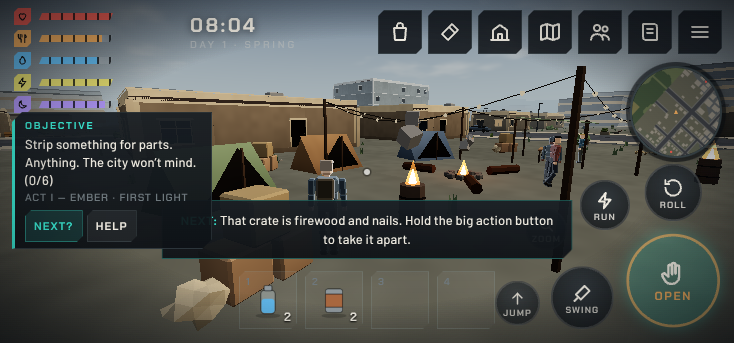
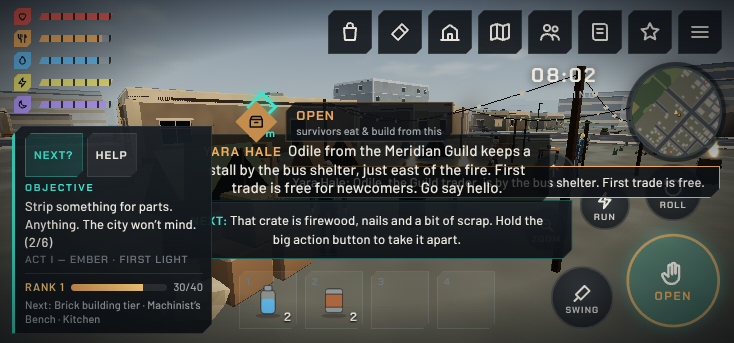
568x320 objective width restored; round 6 decisions logged
Claude-Session: https://claude.ai/code/session_01SR1Fv8d7mJoWGoXgmNhuZf

diff --git a/apps/game/src/ui/style.css b/apps/game/src/ui/style.css
@@ -687,3 +687,7 @@ html.touch .prompt { display: none; }
 @media (max-height: 500px) and (max-width: 700px) {
   #ui .objective { width: 186px; }
 }
+/* 568×320-class screens (1st-gen SE Safari tab): keep the round-5 narrow card left of the quick bar */
+@media (max-width: 600px) and (max-height: 340px) {
+  #ui .objective { width: 136px; top: calc(var(--safe-t) + 108px); max-height: calc(100vh - var(--safe-t) - var(--safe-b) - 116px); }
+}

diff --git a/docs/DECISIONS.md b/docs/DECISIONS.md
@@ -67,3 +67,19 @@ Newest last. Each entry: what, why, and what would change it.
 - **Save schema 3:** v2 saves get retroactive credit once, for quest XP, quest rep, node XP, perk points and Custodian rep. A frozen v2 fixture (`packages/sim/test/fixtures/save-v2.ts`) must keep loading.
 - **Tutorial "Check your pack":** it works for humans (Tab, I and a touch tap all pass, measured in real-time Chromium). The review bot failed it because it opened the pack during step 3. The game now remembers a pack opened before its step (`flags.seenPack`) so nobody is asked twice.
 - **Bundle baseline** moved 0.54 → 0.61 MB gzip (budget 12 MB). Round 3 was already +4% (0.590 MB). Round 4 adds 16 KB of JS: the perks screen, story/ending flow, power module and sim campaign rules. Accepted on purpose (`UPDATE_BASELINE=1`). The 10% growth guard stays.
+
+## 2026-11-05 — Round 6: a reliable, fair first hour
+- **Reboot guidance.** After the tutorial, the quest objective drives the world beacon and a minimap diamond (Story.target from sim `nextStep`). Raid warnings (away from Haven), a raid recovery, a dropped satchel and a ripe crop outrank it, and outrank tutorial markers too. The node prompt reads "Reboot node". A one-time explainer appears within 25 m of the first node. The round-5 "bot never started a reboot" was the bot's straight-line walking stuck on props; the bots now follow `findPath` and replan around cells the coarse nav grid misses.
+- **Early raids** (the first `EARLY_RAIDS = 2`) are filled to a strength budget from what Haven has: 22 (raid 1) / 30 (raid 2), plus 0.25 / 0.35 × a prep score from walls, traps, turrets, guards and a weapon in hand, capped at 34 / 46. With no defences that is two Reaver grunts, or a drone and four crawlers, or two hounds. Early losses are soft: at most 10% of stores, nobody hurt, at most 15% structure damage. Any lost raid pushes the next one back 24 h (`RAID_LOSS_GRACE_HOURS`), and its recovery objective (place a wall, barricade or trap) returns half the lost supplies. The raid card shows who, the compass direction (world −z is north), a game-time countdown and a 3-item checklist. A red minimap chevron shows the direction. The difficulty bar was set from a person's likely starter kit (lead pipe, no armour); the bot only had to clear it without top-ups.
+- **Difficulty** (Settings → Game): Relaxed / Standard / Hard map to the existing `chill / standard / hard`. Each step scales raid frequency (0.5 / 1 / 1.5, as before), raid size (new: 0.7 / 1 / 1.35), enemy damage (0.6 / 1 / 1.4) and hunger/thirst drain (0.6 / 1 / 1.35). Standard stays the default. It is stored per world, so no migration.
+- **Deaths.** Ambient (untagged) enemies keep out of a 48 m ring around Haven: they never spawn within 78 m, give up a chase when you are inside, and back off if they stray in. Raids and node waves still come. On death you keep tools, weapons, ammo, medicine, blueprints, key items and the quick bar. Materials, food and parts drop in a satchel, which is the beacon and minimap target until picked up. Respawn waits for "Get back up" (tap, E or Space) so the recap can be read: cause (killer kind, or the survival cause behind "exposure", e.g. "Bled out after a Feral Hound's hit"), where, and one tip. The tip is the enemy's counter, or a night tip if killed at night more than 100 m out.
+- **First crop.** A new tutorial step, "A first crop", comes after the bed. It gives 4 carrot seeds, 6 compost and 4 timber once, so the step cannot dead-end. Planting with E completes it. Save schema 4 shifts `flags.onb` by one for v3 saves at or after the inserted index (13). The growth timer shows on the plot prompt and the objective card ("ripe in 4 d 11 h (about 1.8 h of play)"), from sim `hoursToRipe`. There is one harvest reminder per planting, and a one-time seasons card on the first planting (or a failed out-of-season one). **Farmers wait 6 game hours before harvesting a crop the player planted** (`CropSave.mine`). Before this they took it the hour it ripened, so a player never saw a ripe crop. Making every crop wait starved the 30-day soak town, so only the player's crops wait.
+- **Odile early.** The nearest survivor mentions her once the tutorial reaches crafting, or after 4 minutes of play. Her coin is on the minimap and pulses until the first visit. She calls out once within 14 m. The first visit offers a free welcome trade (2 canned beans, 1 bandage, 6 chits). `flags['trader:met']` stamps the minute of first contact.
+- **Act I length.** "Bring Haven to three residents" completed itself: three survivors are seeded at start. It is now four residents, with a hint to build a spare bed and keep food stocked. The night gate (sleep from 19:00, about 11 real minutes in at the default 24-minute day) plus the tutorial and this step put a competent player's Act I near the 25-minute floor (estimate, see PLAN.md). XP and reward thresholds are unchanged: the first perk at about 1 minute is intended.
+- **Landscape phone layout** (SE 3rd gen 667×375, iPhone 13 844×390, 15 Pro Max 932×430 as a Home Screen PWA, with notch / Dynamic Island insets):
+  - Jump moves above Attack (it covered quick slot 4 on SE). Zoom becomes a 45 px target.
+  - The clock sits under the top bar.
+  - The objective card starts below the meters, puts its buttons first, passes touches through to the stick, is height-capped, and is 186 px wide on SE-class widths.
+  - Layout is measured by emulation only, not on a device.
+- **Input.consume.** Several fixed-step tickers can read one frame's input. Escape now closes a dialog without also opening pause (a raw keydown listener closed the dialog first). Screen hotkeys are consumed once.
+- **Bundle.** A dynamic `import('three')` in main.ts pulled in the whole library (+44 KB gzip). It was replaced with `Vector3.clone()`. The payload is 0.63 MB against the 0.61 baseline, inside the 10% guard; the baseline is not moved.
